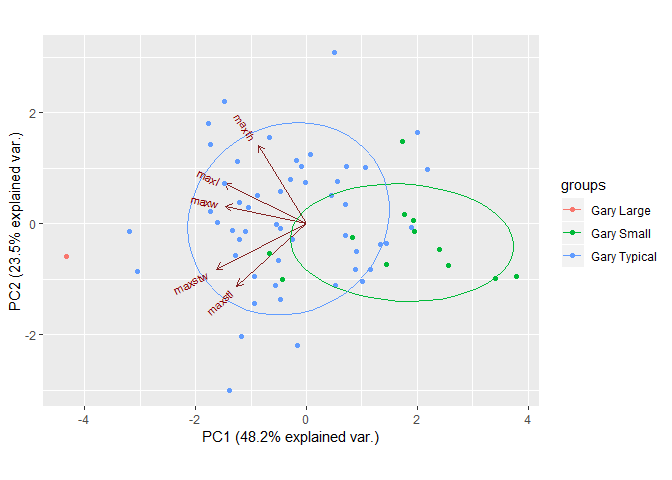
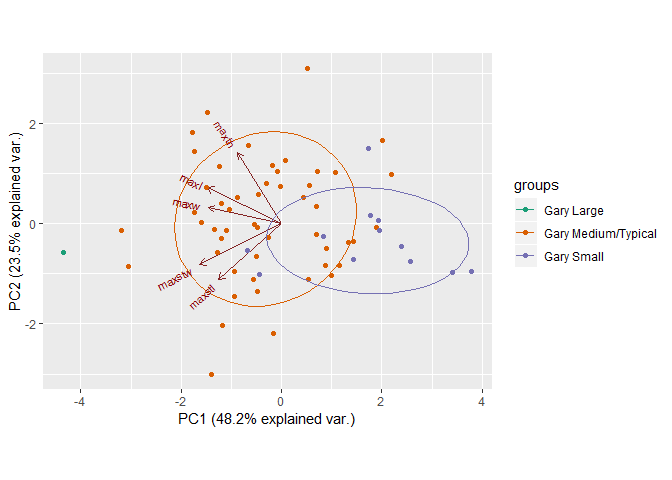
<edit linear-metrics>

diff --git a/analysis/linear-metrics.md b/analysis/linear-metrics.md
@@ -59,6 +59,7 @@ library(ggbiplot)
 
 ``` r
 library(RRPP)
+library(ggplot2)
 ```
 
 ### Principal Components Analysis
@@ -97,12 +98,63 @@ summary(ppgary.pca)
 
 ``` r
 #plot pca
-ggbiplot(ppgary.pca,obs.scale = 1, var.scale = 1, ellipse = TRUE,groups = type)
+pca<-ggbiplot(ppgary.pca,obs.scale = 1, var.scale = 1, ellipse = TRUE,groups = type)
+pca + scale_color_brewer(palette = "Dark2")
 ```
 
 ![](linear-metrics_files/figure-gfm/pca-1.png)<!-- -->
 
-#### Analyses of Variance (ANOVA) for `attribute` \~ `type`
+#### Boxplots for `variable` by `type`
+
+``` r
+#boxplot of maximum length ~ type
+mxl<-ggplot(ppgary,aes(x=type, y=maxl,color=type)) + geom_boxplot()
+mxl + scale_color_brewer(palette = "Dark2")
+```
+
+![](linear-metrics_files/figure-gfm/boxplot-1.png)<!-- -->
+
+``` r
+#boxplot of maximum width ~ type
+mxw<-ggplot(ppgary,aes(x=type, y=maxw,color=type)) + geom_boxplot()
+mxw + scale_color_brewer(palette = "Dark2")
+```
+
+![](linear-metrics_files/figure-gfm/boxplot-2.png)<!-- -->
+
+``` r
+#boxplot of maximum thickness ~ type
+mxth<-ggplot(ppgary,aes(x=type, y=maxth,color=type)) + geom_boxplot()
+mxth + scale_color_brewer(palette = "Dark2")
+```
+
+![](linear-metrics_files/figure-gfm/boxplot-3.png)<!-- -->
+
+``` r
+#boxplot of stem length ~ type
+mxstl<-ggplot(ppgary,aes(x=type, y=maxstl,color=type)) + geom_boxplot()
+mxstl + scale_color_brewer(palette = "Dark2")
+```
+
+![](linear-metrics_files/figure-gfm/boxplot-4.png)<!-- -->
+
+``` r
+#boxplot of stem width ~ type
+mxstw<-ggplot(ppgary,aes(x=type, y=maxstw,color=type)) + geom_boxplot()
+mxstw + scale_color_brewer(palette = "Dark2")
+```
+
+![](linear-metrics_files/figure-gfm/boxplot-5.png)<!-- -->
+
+``` r
+#boxplot of dart-arrow index ~ type
+bdai<-ggplot(ppgary,aes(x=type, y=dai,color=type)) + geom_boxplot()
+bdai + scale_color_brewer(palette = "Dark2")
+```
+
+![](linear-metrics_files/figure-gfm/boxplot-6.png)<!-- -->
+
+#### Analyses of Variance (ANOVA) for `variable` \~ `type`
 
 ``` r
 #anova = maximum length ~ type
